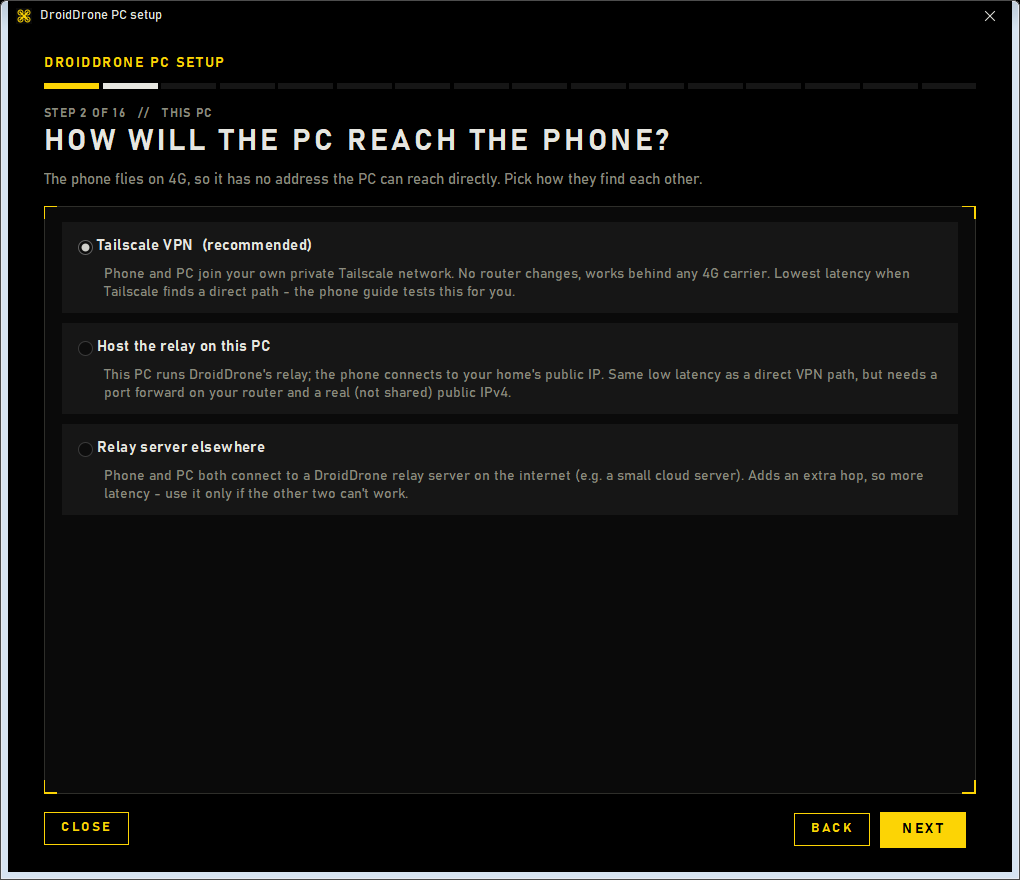
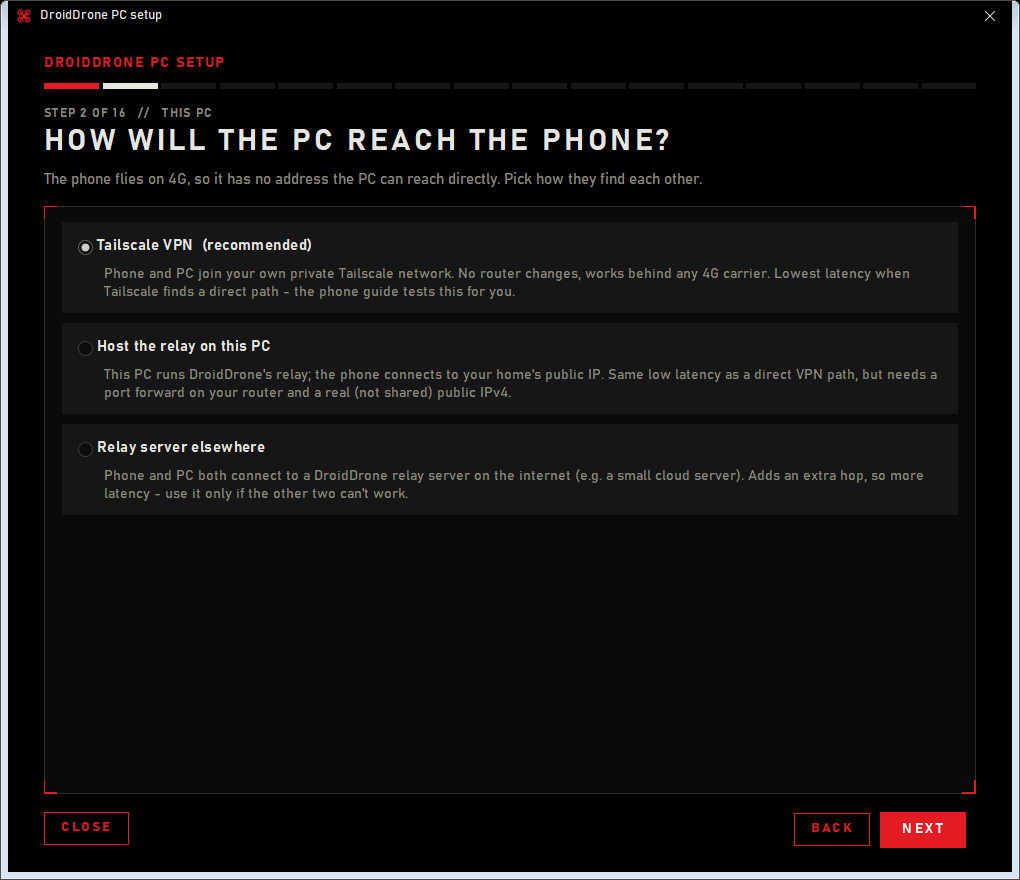
Red accent colour (#e31b23); yellow kept for warnings, green for OK
Errors use a lighter red so they stay distinct from the accent; white text on red buttons. README screenshots updated.

diff --git a/src/main/java/de/droiddrone/pc/gui/Theme.java b/src/main/java/de/droiddrone/pc/gui/Theme.java
@@ -26,7 +26,7 @@ import java.util.List;
 import java.util.Map;
 
 /**
- * Military look: black base, signal yellow for accents and warnings, green for "OK", square corners, yellow corner
+ * Military look: black base, signal red accents, yellow for warnings, green for "OK", square corners, red corner
  * brackets on panels, condensed DIN-style lettering (Bahnschrift, part of Windows 10/11) and monospace readouts.
  */
 final class Theme {
@@ -36,13 +36,13 @@ final class Theme {
     static final Color LINE = new Color(0x2e2e2a);
     static final Color TEXT = new Color(0xe6e6e0);
     static final Color MUTED = new Color(0x8c8c7e);
-    static final Color ACCENT = new Color(0xfcd405);
+    static final Color ACCENT = new Color(0xe31b23); // signal red
     static final Color OK = new Color(0x009639);
     static final Color WARN = new Color(0xfcd405);
-    static final Color BAD = new Color(0xe0301e);
+    static final Color BAD = new Color(0xff5a4e);  // lighter than the accent, so errors stand out
     /** For HTML text. */
     static final String MUTED_HEX = "#8c8c7e";
-    static final String BAD_HEX = "#e0301e";
+    static final String BAD_HEX = "#ff5a4e";
 
     private static final List<String> FONTS = Arrays.asList(
             GraphicsEnvironment.getLocalGraphicsEnvironment().getAvailableFontFamilyNames());
@@ -60,11 +60,11 @@ final class Theme {
 
     static void install() {
         FlatLaf.setGlobalExtraDefaults(Map.of(
-                "@accentColor", "#fcd405",
+                "@accentColor", "#e31b23",
                 "@background", "#000000",
                 "@foreground", "#e6e6e0",
-                "@selectionBackground", "#fcd405",
-                "@selectionForeground", "#000000"));
+                "@selectionBackground", "#e31b23",
+                "@selectionForeground", "#ffffff"));
         FlatDarkLaf.setup();
         for (String key : new String[]{"Button.arc", "Component.arc", "TextComponent.arc", "CheckBox.arc", "ProgressBar.arc"}) {
             UIManager.put(key, 0);
@@ -115,7 +115,7 @@ final class Theme {
         JButton button = new JButton(text.toUpperCase());
         button.setFont(headingFont(14.5f));
         button.setBackground(ACCENT);
-        button.setForeground(BG);
+        button.setForeground(Color.WHITE);
         button.setFocusPainted(false);
         button.setBorder(BorderFactory.createEmptyBorder(9, 22, 9, 22));
         return button;
@@ -147,7 +147,7 @@ final class Theme {
         return new Color(c.getRed(), c.getGreen(), c.getBlue(), alpha);
     }
 
-    /** Thin frame with yellow L-shaped corner brackets, like a targeting reticle. */
+    /** Thin frame with red L-shaped corner brackets, like a targeting reticle. */
     static final class BracketBorder extends AbstractBorder {
         private static final int ARM = 12;
 

diff --git a/src/main/java/de/droiddrone/pc/gui/OsdRenderer.java b/src/main/java/de/droiddrone/pc/gui/OsdRenderer.java
@@ -25,7 +25,8 @@ final class OsdRenderer {
     record Data(boolean connected, boolean linkReady, int pingMs, boolean rcLive, FcTelemetry telemetry,
                 VideoPipeline.Stats video, boolean invertPitch) {}
 
-    private static final Color YELLOW = Theme.ACCENT;
+    private static final Color ACCENT = Theme.ACCENT; // symbols and labels
+    private static final Color YELLOW = Theme.WARN;  // warnings only
     private static final Color GREEN = Theme.OK;
     private static final Color RED = Theme.BAD;
     private static final Color WHITE = new Color(0xf2f2ea);
@@ -73,7 +74,7 @@ final class OsdRenderer {
         p.lineTo(cx + 0.5 * s, cy + 0.5 * s);
         p.lineTo(cx + s, cy);
         p.lineTo(cx + 2.2 * s, cy);
-        stroke(p, YELLOW, 2.6f);
+        stroke(p, ACCENT, 2.6f);
     }
 
     /**
@@ -139,7 +140,7 @@ final class OsdRenderer {
                     case 270 -> "W";
                     default -> Integer.toString(norm / 10);
                 };
-                centered(label, tx, top + 52 * unit, norm % 90 == 0 ? YELLOW : WHITE);
+                centered(label, tx, top + 52 * unit, norm % 90 == 0 ? ACCENT : WHITE);
             }
         }
         if (gps != null && gps.distanceHomeM() > 1) {
@@ -153,10 +154,10 @@ final class OsdRenderer {
         float bw = fm.stringWidth(hdg) + 14 * unit;
         g.setColor(OUTLINE);
         g.fillRect(Math.round(cx - bw / 2), Math.round(top - 4 * unit), Math.round(bw), Math.round(24 * unit));
-        g.setColor(YELLOW);
+        g.setColor(ACCENT);
         g.setStroke(new BasicStroke(1.5f));
         g.drawRect(Math.round(cx - bw / 2), Math.round(top - 4 * unit), Math.round(bw), Math.round(24 * unit));
-        centered(hdg, cx, top + 14 * unit, YELLOW);
+        centered(hdg, cx, top + 14 * unit, ACCENT);
     }
 
     // ------------------------------------------------------------------ corners
@@ -352,12 +353,12 @@ final class OsdRenderer {
 
     private void label(String text, float x, float y) {
         g.setFont(Theme.headingFont(14 * unit));
-        text(text, x, y, YELLOW);
+        text(text, x, y, ACCENT);
     }
 
     private void labelRight(String text, float right, float y) {
         g.setFont(Theme.headingFont(14 * unit));
-        rightText(text, right, y, YELLOW);
+        rightText(text, right, y, ACCENT);
     }
 
     /** Text with a black outline. */

diff --git a/src/main/java/de/droiddrone/pc/gui/CheckRow.java b/src/main/java/de/droiddrone/pc/gui/CheckRow.java
@@ -77,7 +77,7 @@ class CheckRow extends JPanel {
                 case OK -> Theme.OK;
                 case WARN -> Theme.WARN;
                 case BAD -> Theme.BAD;
-                case INFO -> Theme.ACCENT;
+                case INFO -> Theme.WARN;
                 case PENDING -> Theme.LINE;
             };
             int s = Math.min(getWidth(), getHeight()) - 2;
